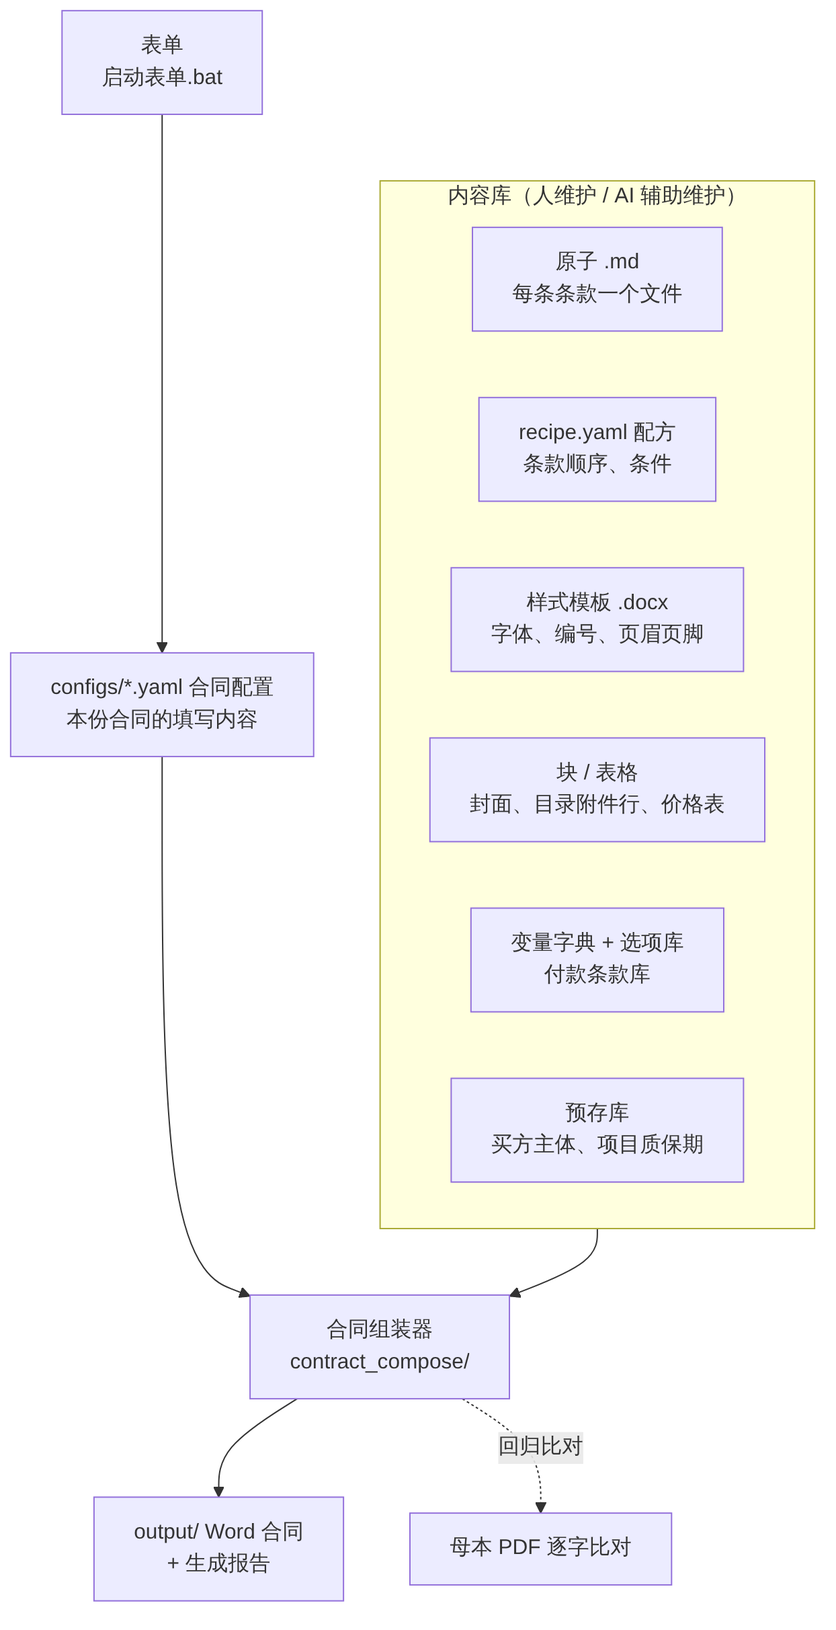
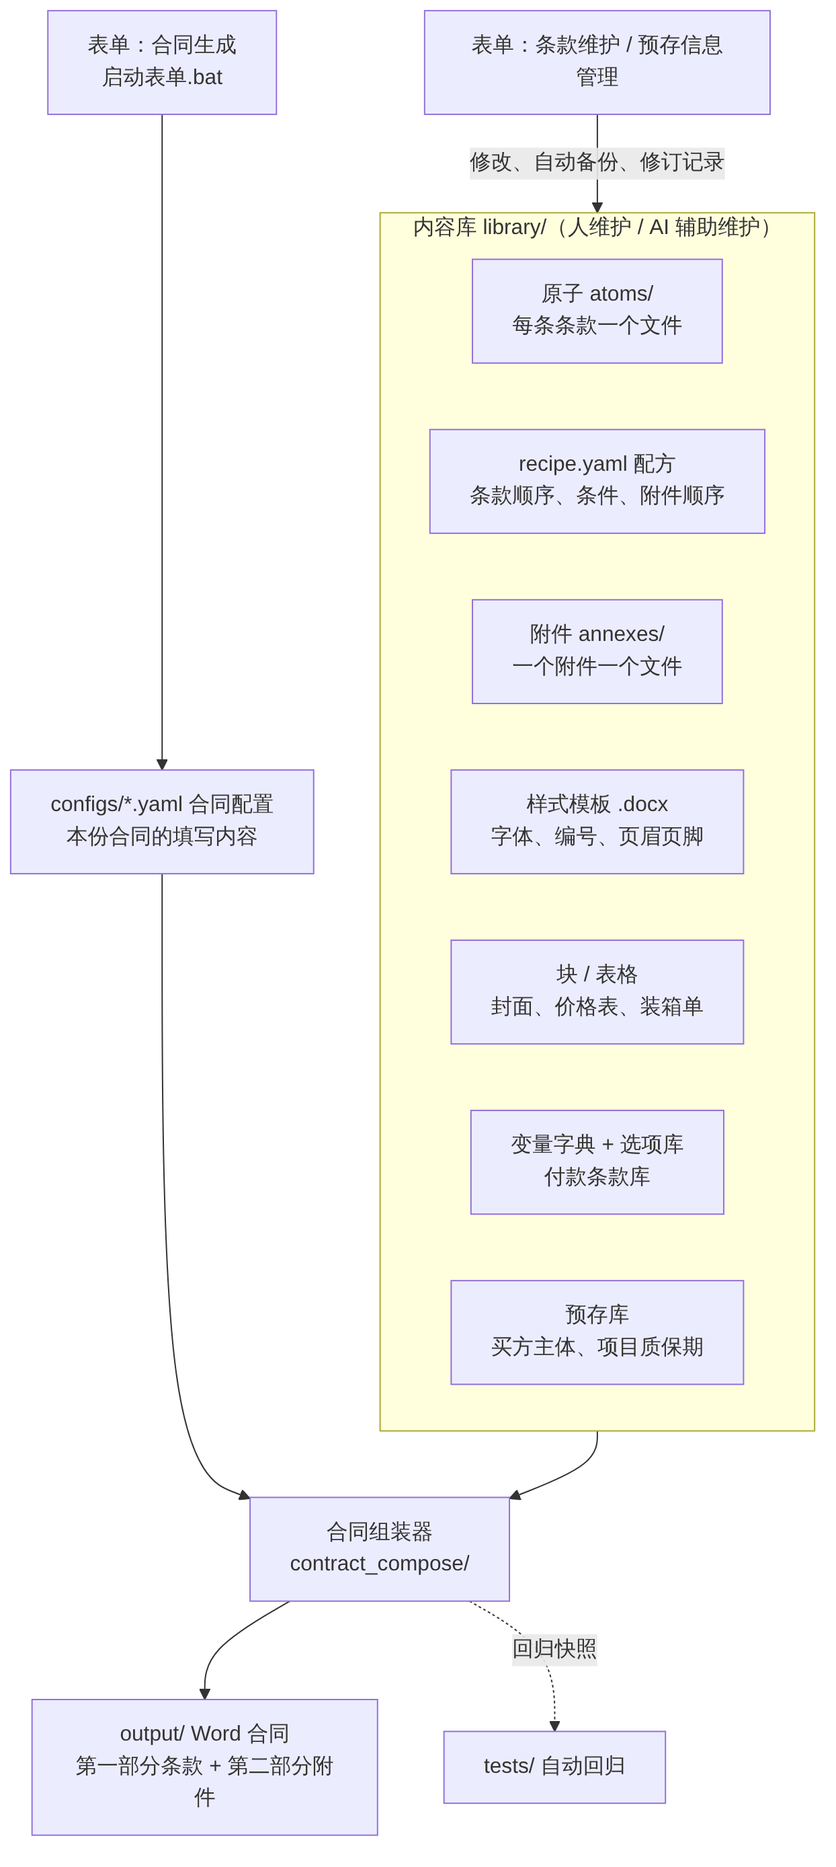
文档：README 与路线图更新到最新，写入下一阶段六项任务
- README：补充合同附件、条款维护中的变量管理和预存信息管理；新增“下一步计划”
- 路线图：功能清单补上条款维护页面、变量管理、代码自动重新加载；
  后续待办重组为六项（新建合同模板向导、条款与预存信息管理、变量管理、
  现有模板附件、UI 优化、精简体量），原有未完成事项并入对应任务
- 流程图：总体架构加入附件与条款维护；日常维护改为对应到表单页面
- 架构：补充 ui/stale.py

Claude-Session: https://claude.ai/code/session_01E7bR6v7cp7iNYh3vTzxs8a

diff --git a/docs/路线图.md b/docs/路线图.md
@@ -16,71 +16,89 @@
 | 验证 | 自动回归测试：示例配置、母本回归、变量标注版与快照逐字比对；表单冒烟测试 | `python -m pytest tests` | 已完成 |
 | 验证 | 变量标注版：`--标注 <类型>` 生成黄色高亮的 `【变量：名称｜母本原值】` 母本 | 组装器 | 已完成 |
 | 新增类型 | 母本解析：还原 Word 实际编号、手打编号、样式、表格 | `contract_compose/master_parser.py` | 已完成 |
-| 新增类型 | 体检：编号、引用、待填位、文字疑点；拖文件到 `体检.bat` | `contract_compose/health_check.py`、`体检.bat` | 已完成，需增强（见三之 1） |
+| 新增类型 | 体检：编号、引用、待填位、文字疑点；拖文件到 `体检.bat` | `contract_compose/health_check.py`、`体检.bat` | 已完成，需增强（见待办 1） |
 | 新增类型 | 拆原子、建类型的通用脚本 | 暂无，AI 每次写一次性脚本放 `new_types/<名>/` | **未做** |
 | 新增类型 | AI 工作流 skill | `contract-master-to-atoms` | 已建，随工具完善而更新 |
 | 新增类型 | 合同类型设置 `type.yaml`：程序自动识别类型，新增类型无需改代码 | `library/<类型>/type.yaml` | 已完成 |
 | 维护 | 生成原子总览（按条款号查文件名） | `python -m contract_compose.atom_index <类型>` | 已完成 |
-| 附件 | 附件库：编号自动、目录附件行与附件清单表（☑ / □）、附件正文（第二部分）；表单“④ 合同附件” | `library/<类型>/annexes/`、`contract_compose/annexes.py` | FA 已完成，PO 未做（见三之 3） |
+| 附件 | 附件库：编号自动、目录附件行与附件清单表（☑ / □）、附件正文（第二部分）；表单“④ 合同附件” | `library/<类型>/annexes/`、`contract_compose/annexes.py` | FA 已完成，PO 未做（见待办 4） |
+| 维护 | 条款维护页面：按章浏览 / 查找、修改与对比检查、增删移动条款、附件顺序与默认有无、历史版本恢复；保存时自动备份、试生成（失败还原）、记修订记录、更新快照 | 表单“条款维护”、`maintenance.py`、`structure.py` | 已完成 |
+| 维护 | 变量管理：用在哪里、改默认值与说明（共用变量可只改本类型）、把条款文字改成变量 | 表单“条款维护 → 变量 / 改成变量”、`variable_admin.py` | 部分完成（见待办 3） |
+| 维护 | 表单运行期间更新代码后自动重新加载，无需重启 | `ui/stale.py` | 已完成 |
 | AI 上下文 | 澄清表、偏离表、谈判纪要等 | — | 构想 |
 
 ## 后续待解决事项
 
-宗旨：**今后任何新增或修改，都要让用户尽可能自己能维护，或者让 AI 借助 skill 直接去做。** 下面四项是下一阶段要解决的问题。
+宗旨：**今后任何新增或修改，都要让用户尽可能自己能维护（交互友好），或者让 AI 直接去做；同时控制项目体量，不为不常用的功能付出维护成本。** 下面六项是下一阶段的任务（顺序不代表优先级）。
 
-### 1. 新增合同模板：怎样方便地新增并形成可用内容？
-- 现状：skill 已定义 10 步流程，体检工具已有；拆原子靠 AI 每次写一次性脚本，没有通用的一键工具。
+### 1. 新建合同模板：交互友好、顺畅的录入流程
+- 现状：体检（`体检.bat`）+ AI 按 skill 分步处理；拆原子靠 AI 每次写一次性脚本；`type.yaml` 已让新类型无需改代码；拆完后可在条款维护页面逐条校对。
 - 要做：
-  - [ ] 体检工具识别手打编号的合同：章号“一、”“第X章”，条款号“1.1”（S416 合同已发现结构大纲为空）。
-  - [ ] 做通用 `新建合同类型.py`：读体检结果和拆分设置，自动生成原子草稿、配方、变量字典雏形。
-  - [ ] 做“拆分设置”模板，用户只需确认范围和章代码。
-  - [ ] 用 F520 PO 母本重新生成一遍 PO 库，验证通用脚本与现有库一致（回归）。
-  - [ ] 中文单语合同（S416）、英文单语、中英对照三种语言结构都要支持。
-  - [ ] 表单里增加“新增合同类型”入口：上传母本 → 显示体检报告 → 提示下一步让 AI 处理。
-- 试用中：S416 VLCC 中文采购订单。体检已完成，等用户确认缺章（七、十八）和是否合并英文版，再进第 2 步。
+  - [ ] 表单新增“新建合同类型”向导：上传母本 → 显示体检结果（问题清单、结构大纲）→ 确认章范围与章代码（拆分设置）→ 一键生成原子草稿、配方、`type.yaml`、变量字典雏形 → 在条款维护中逐条校对 → 标变量 → 启用。
+  - [ ] 通用拆原子工具（替代每次的一次性脚本）；用 F520 PO 母本重新生成 PO 库做回归，确认与现有库一致。
+  - [ ] 体检识别手打编号（章号“一、”“第X章”，条款号“1.1”）；支持中文单语、英文单语、中英对照三种结构。
+  - [ ] 样式模板、封面、价格表等块的生成（目前由 AI 手工处理）。
+  - [ ] 试用：S416 VLCC 中文采购订单（已完成体检，待确认缺章“七、”“十八、”和是否合并英文版）。
 
-### 2. 已有合同模板：怎样方便地新增和更新变量？
-- 现状：新增变量要同时改三处：原子里写 `{{变量}}`、变量字典登记、必要时选项库；要懂 yaml 和标记。
+### 2. 条款与预存信息管理：持续优化
+- 现状：条款维护页面能修改、增删移动、历史恢复；预存信息管理能增删改买方主体、项目信息并自动备份。
 - 要做：
-  - [ ] 标注版反馈闭环：用户在变量标注版 Word 里批注“这里应是变量 / 这个不该是变量”→ AI 读取批注，自动改原子、变量字典，并重新回归。
-  - [ ] 表单增加“变量管理”页：列出变量、所在条款、默认值、母本原值，可增删改（类似预存信息管理）。
-  - [ ] 增加“变量使用检查”工具：原子里用了但字典没有、字典有但没用到的变量，自动报告。
-  - [ ] 写 skill `contract-variable-maintenance`：用户用一句话（“把 PO 9.3 的质保期改成变量”）说明，AI 完成改原子、改字典、回归、写修订记录。
-  - [ ] 变量改动写入修订记录，并保留版本。
+  - [ ] 选项库（多种写法，如付款方式、包装方式、争议解决）和付款条款库在页面中维护（目前要改 yaml）。
+  - [ ] 跨条款查找替换：替换前列出所有位置，逐条确认。
+  - [ ] 预存信息管理：查找、字段校验（信用代码、邮箱等格式）、修改历史与恢复（与条款维护一致）。
+  - [ ] Word 修订往返：导出带条款 ID 的“条款维护版” Word，用户在 Word 中开修订修改后上传，程序把修订对应到条款，确认后写入。
+  - [ ] 页面修改后的同步：提示或一键提交到 git（目前只改本机文件）。
+  - [ ] 处理 `library/PO/修订记录.md`、`library/FA/修订记录.md` 中的“存疑”项。
 
-### 3. 合同附件生成：计划与附件目录调整
-- 现状：FA 已完成附件库（`library/FA/annexes/`，11 个附件）：编号按顺序自动排列，目录附件行、附件清单表（☑ / □）、附件正文生成在同一个 Word 的第二部分；PDF 类附件（供货明细表、技术协议、HSE 要求、采购订单、廉洁承诺书）只打钩，由用户另行附上。
+### 3. 变量管理：修改、新增等
+- 现状：条款维护页面“变量”可查看用处、改默认值与说明；“改成变量”可把条款文字改成新变量；改动记入修订记录。
 - 要做：
-  - [x] 盘点 FA 附件清单并分类：正文（文件资料交付要求、交货要求、送货清单、退货回购、项目特殊条款、模板）/ 文件（PDF）。
-  - [x] 附件库：一份附件一个文件，配方“附件/顺序”决定编号，配置“附件”选择有 / 无。
-  - [x] 目录附件行与附件清单表自动生成；无的附件目录中标注不适用。
-  - [x] 正文引用附件用 `{{附件:ID}}` / `{{附件_en:ID}}` / `{{附件号:ID}}`，编号自动更新。
-  - [x] 附件正文与主合同在同一个 Word 中输出（最后一条条款之后另起一页）。
-  - [ ] PO 附件库：用 PO 版的项目特殊条款等内容建 `library/PO/annexes/`（代码已通用）。
-  - [ ] 处理 `library/FA/修订记录.md` 中附件相关的“存疑”项。
+  - [ ] 直接新增、删除、重命名变量（重命名同步改所有条款中的 `{{变量}}`；删除前检查是否还在使用）。
+  - [ ] 修改变量的类别（必填 / 有默认值 / 付款…）、表单中的显示名和分组（目前写死在 `ui/contract_form.py` 中），让新变量自动出现在表单的合适位置。
+  - [ ] 中英文成对的变量（`xxx_en`）一起管理。
+  - [ ] 变量检查报告：用了但没定义、定义了但没用到、母本值与默认值不一致。
+  - [ ] 变量标注版反馈闭环：在标注版 Word 里批注“该是变量 / 不该是变量”，程序读取批注生成待确认的修改；FA 标注版尚未生成。
 
-### 4. 维护方式：让用户尽量自己维护，或交给 AI 去做
-- 原则：用户只管“说要什么”和“拍板”，AI 负责改文件、跑检查、写修订记录。
+### 4. 现有合同模板的附件
+- 现状：FA 已完成（11 个附件，6 个正文、5 个 PDF 只打钩）；附件代码对所有合同类型通用。
 - 要做：
-  - [ ] **skill 体系**：`contract-master-to-atoms`（新增类型，已建）；`contract-variable-maintenance`（改变量）；`contract-clause-maintenance`（改条款文字、增删条款、改写法、改配方）；`contract-generate`（用对话代替表单生成合同）。每个 skill 约定：先改、再跑回归、再写修订记录、再汇报。
-  - [ ] **安全护栏**：所有修改前自动备份；改动必须写入修订记录；改共用库后必须重跑 FA、PO 回归，输出不变才算完成（回归已自动化：`python -m pytest tests`）。
-  - [ ] **脚本化而非靠记忆**：能固化成工具的步骤（体检、总览、回归、变量检查）做成命令或 .bat，用户双击即可，不依赖 AI 记得怎么做。
-  - [x] **条款维护页面（第一步）**：按章浏览 / 查找、修改条款与附件文字、保存前对比与检查、自动备份、修订记录、试生成失败自动还原、历史版本恢复（表单“条款维护”）。
-  - [x] **条款维护页面（第二步）**：新增 / 删除 / 移动条款（ID 自动分配、编号自动重排）；变量管理（用到的条款、默认值，选中文字改成变量）；附件顺序与默认有 / 无。
-  - [ ] **Word 修订往返**：导出带条款 ID 的“条款维护版” Word，用户在 Word 中开修订修改后上传，程序把修订对应到条款，确认后写入。
-  - [ ] 一份“维护手册”（在 `docs/使用手册.md` 的基础上，用问答方式写“我想……怎么办”）。
-  - [ ] AI 上下文层（构想）：澄清表、偏离表、谈判纪要，作为生成合同时的参考输入。
+  - [ ] PO 附件库：盘点 PO 母本附件（ATTACHMENT A–M），按 FA 的方式建 `library/PO/annexes/`，项目特殊条款用 PO 版本。
+  - [ ] FA 附件存疑：附件十第 8、9 条的中英文排版。
+  - [ ] 以后新增的合同类型，附件纳入“新建合同类型”向导。
 
-### 其他待办
-- [ ] 逐项处理 `library/PO/修订记录.md` 中的“存疑”清单。
-- [ ] 变量标注版：FA 母本标注版尚未生成（PO 已生成并确认）。
+### 5. UI：持续优化，尽量方便操作
+- 要做：
+  - [ ] 合同生成页按步骤引导（基本信息 → 写法 → 附件 → 检查 → 生成），每步显示还缺什么；生成前在页面中预览合同。
+  - [ ] 生成后一键打开 output 文件夹 / Word；最近生成的合同列表。
+  - [ ] 条款维护页：可折叠的章 → 条款目录树；编辑时变量高亮，输入 `{{` 时列出可用变量。
+  - [ ] 统一各页面的提示、按钮位置和样式；常用操作减少点击；长列表都能查找。
+  - [ ] 保存等耗时操作显示进度；出错提示用业务语言说明原因和怎么改。
+  - [ ] 问答式“我想……怎么办”维护手册（在 `docs/使用手册.md` 基础上）。
 
-## 当前进度
+### 6. 精简项目体量：架构、功能、代码
+- 原则：每项功能比较“维护它的成本”与“实际使用时省下的成本”；不常用、可由 AI 或其他功能替代的，删除或合并。纯重构不改变生成结果（快照不变）。
+- 第一步做盘点：目前代码约 3700 行（组装引擎约 1100、条款维护约 900、表单页面约 1000、新增类型工具约 560），测试约 500 行、快照 1.3 MB、测试运行约 2.5 分钟。逐项列出用途、使用频率、维护成本，给出“保留 / 合并 / 删除”建议，确认后再动手。
+- 初步候选（待盘点确认）：
+  - [ ] `原子总览.md` + `atom_index.py`：条款维护页面已能按章浏览和查找，总览可能多余。
+  - [ ] 原子头信息中的 `引用`、`变量`、`选项`、`母本编号`、`版本`：代码不使用，且改条款后会过期。
+  - [ ] `--标注`（变量标注版）、`--母本`（母本回归）：只在新增类型时用，可并入“新建合同类型”向导或测试。
+  - [ ] 体检（`master_parser.py`、`health_check.py`、`体检.bat`）：并入“新建合同类型”向导，减少独立入口。
+  - [ ] 表单中写死的变量分组和显示名改由变量字典提供，缩短 `ui/contract_form.py`（与待办 3 一起做）。
+  - [ ] 测试：快照只保留正文文字与关键部件以减小体积；精简重复的页面用例，缩短运行时间。
+  - [ ] 文档：流程图 PNG 与 Mermaid 重复维护（GitHub 可直接显示 Mermaid，可考虑去掉 PNG）；README 与 docs 的重复内容。
+  - [ ] AI skill `contract-master-to-atoms`：与当前代码和流程不一致，随“新建合同类型”向导重写或删除。
+
+### 其他（构想，暂不排期）
+- [ ] AI 上下文层：澄清表、偏离表、谈判纪要，作为生成合同时的参考输入。
+- [ ] skill 体系（改变量、改条款、用对话生成合同）：页面功能完善后再评估是否需要。
+
+## 当前进度（2026-10-06）
 
 - FA 框架合同：原子 106 条，回归 32 页，与批注版母本一致（有意修改见回归检查）。
 - FA 合同附件：11 个附件（6 个正文、5 个 PDF 只打钩），第二部分随合同一同生成；修改与存疑见 `library/FA/修订记录.md`。
 - PO 实采合同：原子 154 条，章节 0–28，与 F520 PO 模板 rev04 一致；变量标注版已由用户确认。
-- 新增类型工具链：体检（程序）+ skill（AI 流程）已就绪；通用拆原子脚本未做。
+- 条款维护页面：修改、增删移动、附件顺序与默认、变量默认值与“改成变量”、历史恢复已上线（表单“条款维护”）。
+- 新增类型工具链：体检（程序）+ skill（AI 流程）已就绪；通用拆原子工具与“新建合同类型”向导未做（待办 1）。
 - S416 VLCC 中文采购订单：已完成第 1 步体检，停在“确认缺章与英文版如何处理”。
   - 结构：27 章，全部手打编号（一、至二十七、），条款号约 62 处手打，列项约 40 处手打。
   - 问题：缺“七、”“十八、”章标题；“十七、”标题与正文粘连；10.2 列项缺 (3)；交叉引用待核对。

diff --git a/README.md b/README.md
@@ -2,7 +2,7 @@
 
 > 目标：合同里只填少数几个变量，其余全部按公司模板自动生成。
 
-合同 = **原子**（每条条款一个文件）× **配方**（条款顺序与条件）× **样式模板** × **块 / 表格** × **变量与选项**。内容在 `library/`，程序在 `contract_compose/`；改条款、加合同类型都不需要改代码。
+合同 = **原子**（每条条款一个文件）× **配方**（条款顺序与条件）× **样式模板** × **块 / 表格** × **变量与选项**，生成的 Word 包括第一部分条款和第二部分附件。内容在 `library/`，程序在 `contract_compose/`；改条款、加合同类型都不需要改代码，条款和变量可以直接在表单的“条款维护”页面中维护。
 
 ![总体架构](docs/diagrams/1_总体架构.png)
 
@@ -11,7 +11,7 @@
 1. 首次使用：双击 `安装依赖.bat`（需已安装 Python）。
 2. 双击 `启动表单.bat`，浏览器打开表单（http://localhost:8501）：选合同类型 → 填必填信息 → 在“④ 合同附件”中勾选附件 → 点“生成合同”。
 3. Word 保存在 `output/`，填写内容保存在 `configs/`，下次可直接打开修改。
-4. 条款要更新时，在表单左侧“条款维护”中查找条款，直接修改文字、调整顺序、新增或移除条款、把文字改成变量（自动备份、记修订记录）。
+4. 条款要更新时，在表单左侧“条款维护”中查找条款，直接修改文字、调整顺序、新增或移除条款；在“变量”中改默认值，或把条款文字改成变量（自动备份、记修订记录）。买方主体、项目质保期在“预存信息管理”中维护。
 
 命令行（在项目根目录）：
 
@@ -30,11 +30,21 @@ python -m pytest tests                                    # 回归测试（先 p
 |---|---|
 | `library/` | 内容库：`common/` 共用（变量字典、付款条款库、选项库、预存库），`FA/`、`PO/` 各类型（`type.yaml`、`recipe.yaml`、`atoms/`、`annexes/` 附件、`templates/`…） |
 | `contract_compose/` | 组装引擎（Python 包） |
-| `ui/`、`app.py` | 表单页面 |
+| `ui/`、`app.py` | 表单页面：合同生成、预存信息管理、条款维护 |
 | `configs/`、`output/` | 合同配置；生成的合同 |
 | `new_types/` | 新增合同类型的中间产物（体检报告等） |
 | `tests/` | 回归快照与表单测试 |
 | `docs/` | 文档与流程图 |
+
+## 下一步计划
+
+详见 [docs/路线图.md](docs/路线图.md)：
+1. **新建合同模板**：表单中的“新建合同类型”向导，上传母本后按步骤完成，录入新合同更顺畅。
+2. **条款与预存信息管理**：选项库、付款条款在页面中维护，跨条款查找替换，Word 修订往返。
+3. **变量管理**：变量的新增、删除、重命名、类别与表单显示名，变量检查报告。
+4. **附件**：为现有合同模板（PO）补齐附件。
+5. **UI**：合同生成按步骤引导、生成前预览、目录树等，尽量减少操作。
+6. **精简体量**：盘点架构、功能和代码，按维护成本与实际收益决定保留、合并或删除。
 
 ## 文档
 

diff --git a/docs/架构.md b/docs/架构.md
@@ -13,20 +13,22 @@
 
 ```mermaid
 flowchart TB
-  subgraph LIB["内容库（人维护 / AI 辅助维护）"]
+  subgraph LIB["内容库 library/（人维护 / AI 辅助维护）"]
     direction LR
-    A1["原子 .md<br/>每条条款一个文件"]
-    A2["recipe.yaml 配方<br/>条款顺序、条件"]
+    A1["原子 atoms/<br/>每条条款一个文件"]
+    A2["recipe.yaml 配方<br/>条款顺序、条件、附件顺序"]
+    A7["附件 annexes/<br/>一个附件一个文件"]
     A3["样式模板 .docx<br/>字体、编号、页眉页脚"]
-    A4["块 / 表格<br/>封面、目录附件行、价格表"]
+    A4["块 / 表格<br/>封面、价格表、装箱单"]
     A5["变量字典 + 选项库<br/>付款条款库"]
     A6["预存库<br/>买方主体、项目质保期"]
   end
-  FORM["表单<br/>启动表单.bat"] --> CFG["configs/*.yaml 合同配置<br/>本份合同的填写内容"]
+  FORM["表单：合同生成<br/>启动表单.bat"] --> CFG["configs/*.yaml 合同配置<br/>本份合同的填写内容"]
   CFG --> ASM["合同组装器<br/>contract_compose/"]
   LIB --> ASM
-  ASM --> OUT["output/ Word 合同<br/>+ 生成报告"]
-  ASM -.回归比对.-> REG["母本 PDF 逐字比对"]
+  ASM --> OUT["output/ Word 合同<br/>第一部分条款 + 第二部分附件"]
+  EDIT["表单：条款维护 / 预存信息管理"] -->|修改、自动备份、修订记录| LIB
+  ASM -.回归快照.-> REG["tests/ 自动回归"]
 ```
 
 ## 目录结构
@@ -79,6 +81,7 @@ flowchart TB
 | `cli.py` / `__main__.py` | 命令行 `python -m contract_compose` |
 | `master_parser.py`、`health_check.py`、`atom_index.py` | 新增类型工具：母本解析、体检、原子总览 |
 | `ui/contract_form.py`、`ui/preset_manager.py`、`ui/clause_editor.py` | Streamlit 表单页面：合同生成、预存信息管理、条款维护（`app.py` 为入口） |
+| `ui/stale.py` | 表单运行期间更新了代码时，清掉进程中旧的 `contract_compose` 模块（依据 `contract_compose.LOADED_AT`），无需重启 |
 
 ## 维护约定
 

diff --git a/docs/使用手册.md b/docs/使用手册.md
@@ -51,14 +51,13 @@ flowchart TD
 ```mermaid
 flowchart LR
   Q{"想改什么？"}
-  Q --> Q1["条款文字"] --> W1["原子 .md"]
-  Q --> Q2["条款顺序 / 增删"] --> W2["recipe.yaml"]
-  Q --> Q3["多种写法"] --> W3["选项库 / 付款条款库"]
-  Q --> Q4["变量 / 默认值"] --> W4["variables.yaml"]
-  Q --> Q5["买方 / 项目质保期"] --> W5["表单：预存信息管理"]
-  Q --> Q6["版式"] --> W6["模板 / 块 / 表格"]
-  W1 & W2 & W3 & W4 & W6 --> R["保存即生效<br/>atom_index 更新总览"]
-  W5 --> R2["保存即生效，自动备份"]
+  Q --> Q1["条款 / 附件文字"] --> P1["条款维护 → 修改"]
+  Q --> Q2["条款顺序、增删条款<br/>附件顺序、默认有无"] --> P2["条款维护 → 结构"]
+  Q --> Q3["变量默认值<br/>把文字改成变量"] --> P3["条款维护 → 变量 / 改成变量"]
+  Q --> Q4["买方 / 项目质保期"] --> P4["预存信息管理"]
+  Q --> Q5["多种写法（选项库）<br/>付款条款、版式"] --> W5["改文件或交给 AI<br/>options/、payment_terms.yaml、templates/"]
+  P1 & P2 & P3 --> R["自动备份 → 试生成 → 修订记录 → 更新快照"]
+  P4 --> R2["保存即生效，自动备份"]
 ```
 
 ## 条款维护（表单页面）
